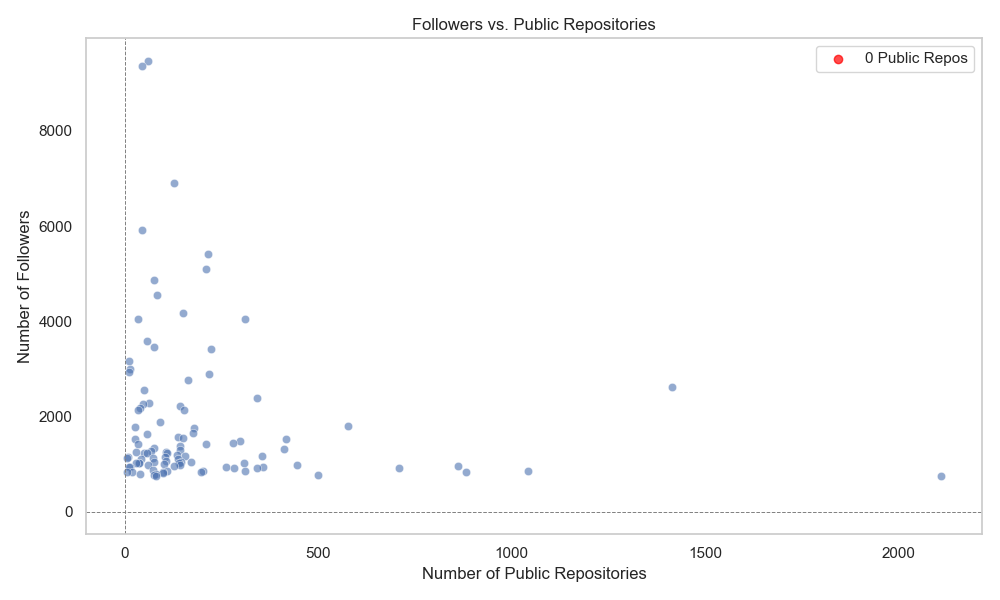
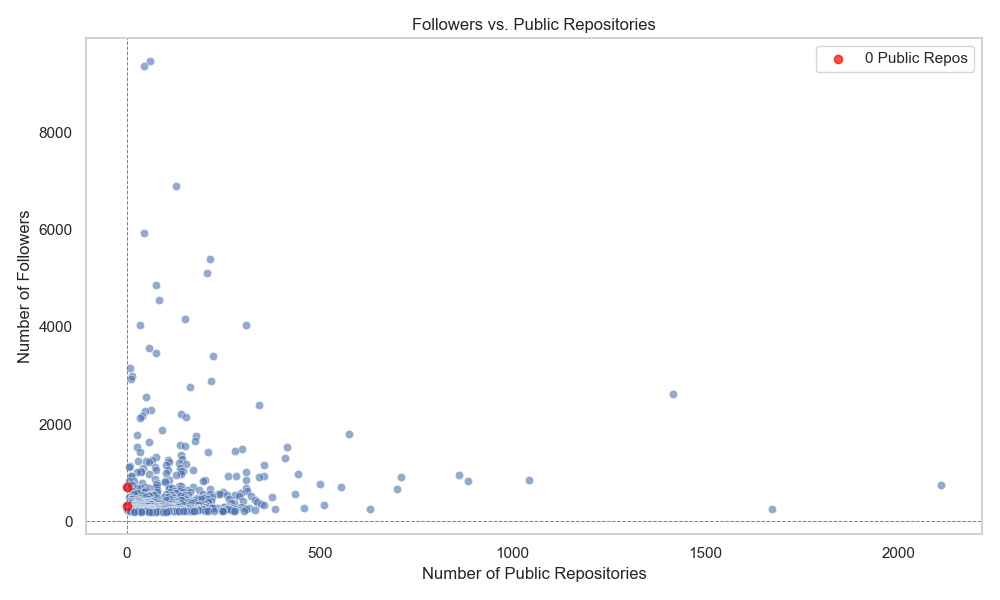
Made changes finale

diff --git a/script.py b/script.py
@@ -8,23 +8,10 @@ TOKEN = os.getenv('GITHUB_TOKEN')
 HEADERS = {'Authorization': f'token {TOKEN}'}
 
 def get_users():
-    users = []
-    page = 1
-    
-    while True:
-        url = f'https://api.github.com/search/users?q=location:Tokyo+followers:>200&per_page=100&page={page}'
-        response = requests.get(url, headers=HEADERS)
-        response.raise_for_status()  
-        
-        data = response.json()
-        users.extend(data['items'])  
-
-        if len(data['items']) < 100:  
-            break
-        
-        page += 1  
-
-    return users
+    url = 'https://api.github.com/search/users?q=location:Tokyo+followers:>200&per_page=100'
+    response = requests.get(url, headers=HEADERS)
+    response.raise_for_status()  
+    return response.json()['items']
 
 def get_user_details(username):
     url = f'https://api.github.com/users/{username}'
@@ -40,7 +27,7 @@ def get_user_repositories(username):
 
 # Write users.csv
 def write_users_csv(users):
-    with open('users1.csv', mode='w', newline='', encoding='utf-8') as file:
+    with open('users.csv', mode='w', newline='', encoding='utf-8') as file:
         writer = csv.writer(file)
         writer.writerow(['login', 'name', 'company', 'location', 'email', 'hireable', 'bio', 'public_repos', 'followers', 'following', 'created_at'])
         for user in users:
@@ -59,7 +46,7 @@ def write_users_csv(users):
             ])
 
 def write_repositories_csv(repositories):
-    with open('repositories1.csv', mode='w', newline='', encoding='utf-8') as file:
+    with open('repositories.csv', mode='w', newline='', encoding='utf-8') as file:
         writer = csv.writer(file)
         writer.writerow(['login', 'full_name', 'created_at', 'stargazers_count', 'watchers_count', 'language', 'has_projects', 'has_wiki', 'license_name'])
         for repo in repositories:
